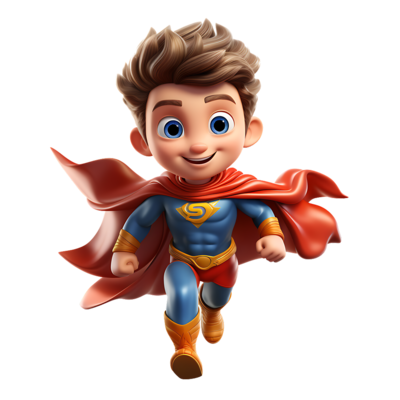
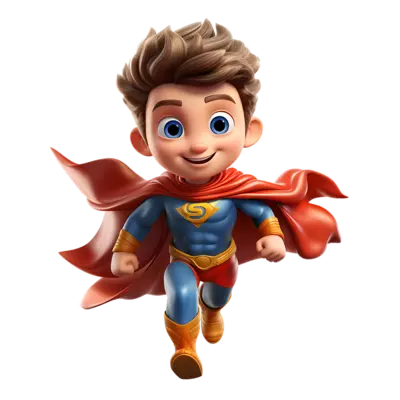
update image resolution

diff --git a/src/components/HeroSection.jsx b/src/components/HeroSection.jsx
@@ -41,7 +41,7 @@ const HeroSection = () => {
               // src={theme == "light" ? devPic : devPicDark}
               src={heroPic}
               alt="Developer image"
-              loading="lazy"
+              // loading="lazy"
               // width={300}
               // height={300}
             />
